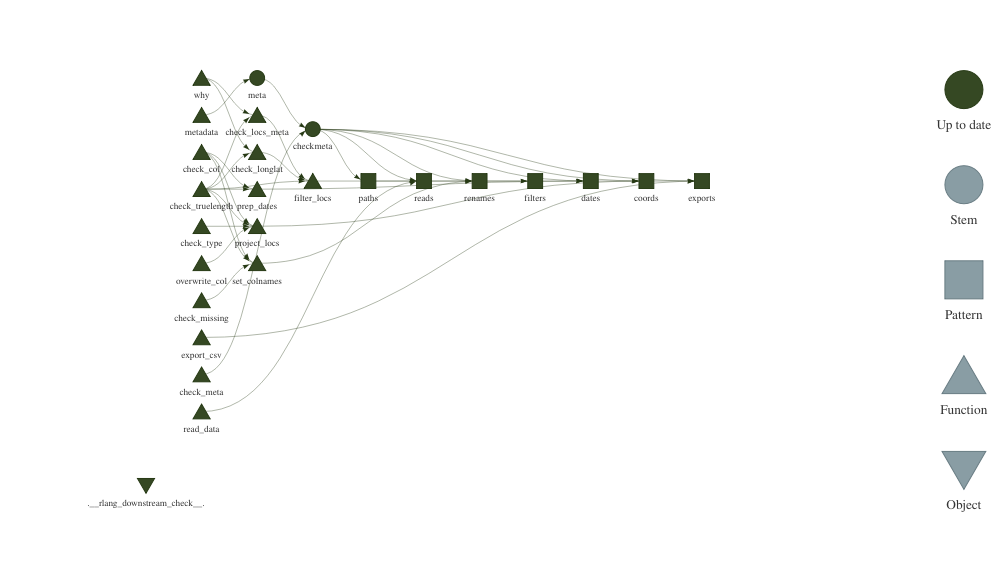
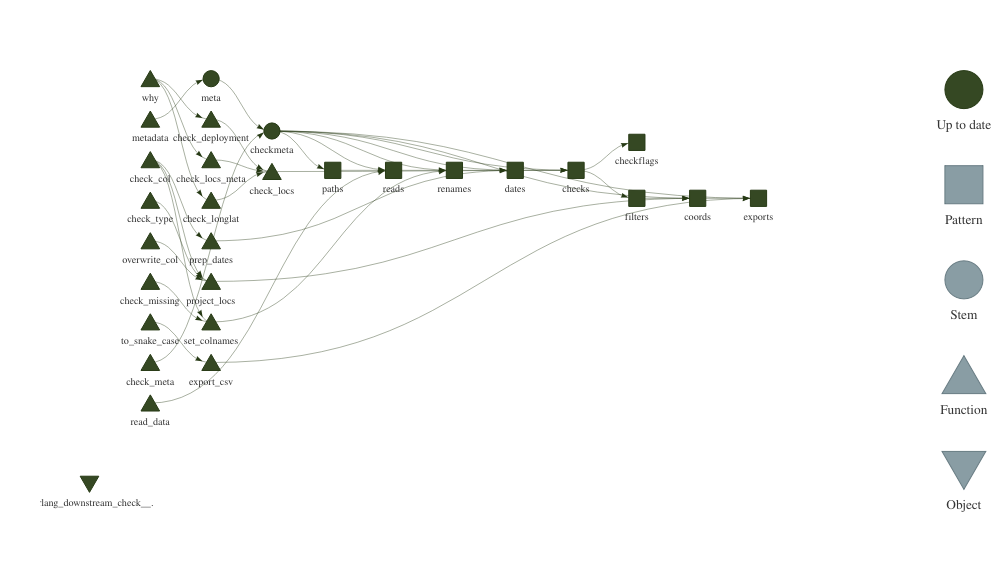
render

diff --git a/README.md b/README.md
@@ -1,116 +1,139 @@
+prepare-locs
+================
 
-# prepare-locs
+-   [Input](#input)
+-   [Output](#output)
+    -   [Files](#files)
+    -   [Column names](#column-names)
+    -   [Flag counts](#flag-counts)
+-   [TODO](#todo)
+-   [Etc](#etc)
 
-A `targets` workflow for processing animal relocation data from the
-WEEL.
+------------------------------------------------------------------------
+
+A `targets` workflow for processing animal relocation data for the WEEL.
 
 ``` r
 library(targets)
 tar_visnetwork()
 ```
 
-    ## Registered S3 method overwritten by 'printr':
-    ##   method                from     
-    ##   knit_print.data.frame rmarkdown
-
 ![](README_files/figure-gfm/viz-1.png)<!-- -->
 
-## Output: files
+# Input
+
+``` r
+tar_read(meta)
+```
+
+| path                                                                   | name                             | x\_long  | y\_lat   | id         | datetime  | extracols                                                                | tz  | epsgin     | epsgout | date      | time      | splitBy | deployment                              |
+|:-----------------------------------------------------------------------|:---------------------------------|:---------|:---------|:-----------|:----------|:-------------------------------------------------------------------------|:----|:-----------|--------:|:----------|:----------|:--------|:----------------------------------------|
+| ../fogo-caribou/data/FogoCaribou.csv                                   | NL-Fogo-Caribou-Telemetry        | X\_COORD | Y\_COORD | ANIMAL\_ID | datetime  | NA                                                                       | UTC | 4326       |   32621 | NA        | NA        | NA      | NA                                      |
+| ../metadata/data/NL/Provincial/Caribou/Telemetry/AllCaribouDataRaw.csv | NL-Provincial-Caribou-Telemetry  | X\_COORD | Y\_COORD | ANIMAL\_ID | NA        | COLLAR\_TYPE\_CL, HERD , Map\_Quality , EPSG\_CODE , EXCLUDE , DOP , NAV | UTC | EPSG\_CODE |   32621 | FIX\_DATE | FIX\_TIME | HERD    | NA                                      |
+| input/vita\_elk\_lotek\_feb\_2016-july\_2019.csv                       | MB-Vita-Elk-Telemetry\_Lotek     | long     | lat      | animal\_ID | time\_utc | status                                                                   | UTC | 4326       |   32614 | NA        | NA        | NA      | input/vita-elk-lotek-deployment.csv     |
+| input/vita\_elk\_vectronic\_feb\_2019-march\_2021.csv                  | MB-Vita-Elk-Telemetry\_Vectronic | long     | lat      | animal\_ID | time\_utc | status                                                                   | UTC | 4326       |   32614 | NA        | NA        | NA      | input/vita-elk-vectronic-deployment.csv |
+| input/RMNP\_elk\_2006\_2015.csv                                        | MB-RMNP-Elk-Telemetry            | long     | lat      | EarTag     | DateTime  | NA                                                                       | GMT | 4326       |   32614 | NA        | NA        | NA      | NA                                      |
+
+# Output
+
+## Files
 
 ``` r
 tar_read(exports)
 ```
 
-    ##  [1] "output/NL-Fogo-Caribou-Telemetry.csv"                     
-    ##  [2] "output/NL-Provincial-Caribou-Telemetry_BUCHANS.csv"       
-    ##  [3] "output/NL-Provincial-Caribou-Telemetry_GlongEY.csv"       
-    ##  [4] "output/NL-Provincial-Caribou-Telemetry_GlongEYVIC.csv"    
-    ##  [5] "output/NL-Provincial-Caribou-Telemetry_GlongOSMOlongN.csv"
-    ##  [6] "output/NL-Provincial-Caribou-Telemetry_LAPOILE.csv"       
-    ##  [7] "output/NL-Provincial-Caribou-Telemetry_MIDlongIDGE.csv"   
-    ##  [8] "output/NL-Provincial-Caribou-Telemetry_MTPEYTON.csv"      
-    ##  [9] "output/NL-Provincial-Caribou-Telemetry_OLDMANS.csv"       
-    ## [10] "output/NL-Provincial-Caribou-Telemetry_POTHILL.csv"       
-    ## [11] "output/NL-Provincial-Caribou-Telemetry_STEPHENV.csv"      
-    ## [12] "output/NL-Provincial-Caribou-Telemetry_TOPSAILS.csv"      
-    ## [13] "output/NL-Provincial-Caribou-Telemetry_UNKNOWN.csv"       
-    ## [14] "output/MB-Vita-Elk-Telemetry_Lotek.csv"                   
-    ## [15] "output/MB-Vita-Elk-Telemetry_Vectronic.csv"               
-    ## [16] "output/MB-longMNP-Elk-Telemetry.csv"
+| output\_path                                         | n\_rows | column\_names                                                                                                    | herd     |
+|:-----------------------------------------------------|--------:|:-----------------------------------------------------------------------------------------------------------------|:---------|
+| output/NL-Fogo-Caribou-Telemetry.csv                 |  156019 | name , id , datetime, x\_long , y\_lat , idate , doy , yr , mnth , flag , x\_proj , y\_proj                      | NA       |
+| output/NL-Provincial-Caribou-Telemetry\_BUCHANS.csv  |  254028 | name , id , datetime , x\_long , y\_lat , herd , idate , doy , yr , mnth , flag , x\_proj , y\_proj , epsg\_proj | BUCHANS  |
+| output/NL-Provincial-Caribou-Telemetry\_GREY.csv     |  270983 | name , id , datetime , x\_long , y\_lat , herd , idate , doy , yr , mnth , flag , x\_proj , y\_proj , epsg\_proj | GREY     |
+| output/NL-Provincial-Caribou-Telemetry\_GREYVIC.csv  |   11136 | name , id , datetime , x\_long , y\_lat , herd , idate , doy , yr , mnth , flag , x\_proj , y\_proj , epsg\_proj | GREYVIC  |
+| output/NL-Provincial-Caribou-Telemetry\_GROSMORN.csv |   42136 | name , id , datetime , x\_long , y\_lat , herd , idate , doy , yr , mnth , flag , x\_proj , y\_proj , epsg\_proj | GROSMORN |
+| output/NL-Provincial-Caribou-Telemetry\_LAPOILE.csv  |  247849 | name , id , datetime , x\_long , y\_lat , herd , idate , doy , yr , mnth , flag , x\_proj , y\_proj , epsg\_proj | LAPOILE  |
+| output/NL-Provincial-Caribou-Telemetry\_MIDRIDGE.csv |  389278 | name , id , datetime , x\_long , y\_lat , herd , idate , doy , yr , mnth , flag , x\_proj , y\_proj , epsg\_proj | MIDRIDGE |
+| output/NL-Provincial-Caribou-Telemetry\_MTPEYTON.csv |   55030 | name , id , datetime , x\_long , y\_lat , herd , idate , doy , yr , mnth , flag , x\_proj , y\_proj , epsg\_proj | MTPEYTON |
+| output/NL-Provincial-Caribou-Telemetry\_OLDMANS.csv  |   11536 | name , id , datetime , x\_long , y\_lat , herd , idate , doy , yr , mnth , flag , x\_proj , y\_proj , epsg\_proj | OLDMANS  |
+| output/NL-Provincial-Caribou-Telemetry\_POTHILL.csv  |  242092 | name , id , datetime , x\_long , y\_lat , herd , idate , doy , yr , mnth , flag , x\_proj , y\_proj , epsg\_proj | POTHILL  |
+| output/NL-Provincial-Caribou-Telemetry\_STEPHENV.csv |   44772 | name , id , datetime , x\_long , y\_lat , herd , idate , doy , yr , mnth , flag , x\_proj , y\_proj , epsg\_proj | STEPHENV |
+| output/NL-Provincial-Caribou-Telemetry\_TOPSAILS.csv |  356426 | name , id , datetime , x\_long , y\_lat , herd , idate , doy , yr , mnth , flag , x\_proj , y\_proj , epsg\_proj | TOPSAILS |
+| output/NL-Provincial-Caribou-Telemetry\_UNKNOWN.csv  |   15818 | name , id , datetime , x\_long , y\_lat , herd , idate , doy , yr , mnth , flag , x\_proj , y\_proj , epsg\_proj | UNKNOWN  |
+| output/MB-Vita-Elk-Telemetry\_Lotek.csv              |   10022 | name , id , datetime, x\_long , y\_lat , idate , doy , yr , mnth , flag , x\_proj , y\_proj                      | NA       |
+| output/MB-Vita-Elk-Telemetry\_Vectronic.csv          |  208239 | name , id , datetime, x\_long , y\_lat , idate , doy , yr , mnth , flag , x\_proj , y\_proj                      | NA       |
+| output/MB-RMNP-Elk-Telemetry.csv                     |   50080 | name , id , datetime, x\_long , y\_lat , idate , doy , yr , mnth , flag , x\_proj , y\_proj                      | NA       |
 
-## Output: flag counts
-
-``` r
-tar_read(checkflags)
-```
-
-| name                             | flag                                                                                           |       N |
-|:---------------------------------|:-----------------------------------------------------------------------------------------------|--------:|
-| NL-Fogo-Caribou-Telemetry        | NA                                                                                             |  156018 |
-| NL-Fogo-Caribou-Telemetry        | long is NA, lat is NA                                                                          |    4621 |
-| NL-Fogo-Caribou-Telemetry        | long is NA, lat is NA, loc is duplicated                                                       |   34360 |
-| NL-Fogo-Caribou-Telemetry        | loc is duplicated                                                                              |      10 |
-| NL-Provincial-Caribou-Telemetry  | Collar type is ARGOS                                                                           |  305866 |
-| NL-Provincial-Caribou-Telemetry  | Map\_Quality is N, Collar type is ARGOS                                                        |    1114 |
-| NL-Provincial-Caribou-Telemetry  | Collar type is VHF                                                                             |   24053 |
-| NL-Provincial-Caribou-Telemetry  | loc is duplicated, Collar type is ARGOS                                                        |      26 |
-| NL-Provincial-Caribou-Telemetry  | NA                                                                                             | 1941084 |
-| NL-Provincial-Caribou-Telemetry  | DOP &gt; 10                                                                                    |    7352 |
-| NL-Provincial-Caribou-Telemetry  | NAV is 2D                                                                                      |   22174 |
-| NL-Provincial-Caribou-Telemetry  | long is 0, lat is 0, long == lat, Map\_Quality is N, DOP &gt; 10, NAV is No                    |    4239 |
-| NL-Provincial-Caribou-Telemetry  | DOP &gt; 10, NAV is 2D                                                                         |    1112 |
-| NL-Provincial-Caribou-Telemetry  | long is 0, lat is 0, long == lat, loc is duplicated, Map\_Quality is N, DOP &gt; 10, NAV is No |    5746 |
-| NL-Provincial-Caribou-Telemetry  | loc is duplicated                                                                              |     310 |
-| NL-Provincial-Caribou-Telemetry  | Map\_Quality is N, NAV is 2D                                                                   |      83 |
-| NL-Provincial-Caribou-Telemetry  | long is 0, lat is 0, long == lat, Map\_Quality is N, NAV is No                                 |    2883 |
-| NL-Provincial-Caribou-Telemetry  | long is 0, lat is 0, long == lat, loc is duplicated, Map\_Quality is N, NAV is No              |    7866 |
-| NL-Provincial-Caribou-Telemetry  | Map\_Quality is N, DOP &gt; 10, NAV is 2D                                                      |      18 |
-| NL-Provincial-Caribou-Telemetry  | loc is duplicated, NAV is 2D                                                                   |      58 |
-| NL-Provincial-Caribou-Telemetry  | Map\_Quality is N                                                                              |    8657 |
-| NL-Provincial-Caribou-Telemetry  | Map\_Quality is N, DOP &gt; 10                                                                 |      15 |
-| NL-Provincial-Caribou-Telemetry  | loc is duplicated, Map\_Quality is N                                                           |      12 |
-| MB-Vita-Elk-Telemetry\_Lotek     | fix date before deployment                                                                     |     473 |
-| MB-Vita-Elk-Telemetry\_Lotek     | NA                                                                                             |   10022 |
-| MB-Vita-Elk-Telemetry\_Lotek     | long is NA, lat is NA, status is not 3D                                                        |     120 |
-| MB-Vita-Elk-Telemetry\_Lotek     | status is not 3D                                                                               |      22 |
-| MB-Vita-Elk-Telemetry\_Lotek     | long is NA, lat is NA, status is not 3D, fix date before deployment                            |       1 |
-| MB-Vita-Elk-Telemetry\_Lotek     | long is NA, lat is NA, loc is duplicated, status is not 3D                                     |       5 |
-| MB-Vita-Elk-Telemetry\_Lotek     | loc is duplicated                                                                              |       2 |
-| MB-Vita-Elk-Telemetry\_Vectronic | fix date before deployment                                                                     |     102 |
-| MB-Vita-Elk-Telemetry\_Vectronic | loc is duplicated, fix date before deployment                                                  |      10 |
-| MB-Vita-Elk-Telemetry\_Vectronic | NA                                                                                             |  208239 |
-| MB-Vita-Elk-Telemetry\_Vectronic | loc is duplicated                                                                              |    5899 |
-| MB-Vita-Elk-Telemetry\_Vectronic | status is not 3D                                                                               |     723 |
-| MB-Vita-Elk-Telemetry\_Vectronic | long is NA, lat is NA, status is not 3D                                                        |     182 |
-| MB-Vita-Elk-Telemetry\_Vectronic | loc is duplicated, status is not 3D                                                            |       7 |
-| MB-Vita-Elk-Telemetry\_Vectronic | status is not 3D, fix date before deployment                                                   |       1 |
-| MB-Vita-Elk-Telemetry\_Vectronic | long is NA, lat is NA, status is not 3D, fix date before deployment                            |       2 |
-| MB-Vita-Elk-Telemetry\_Vectronic | long is NA, lat is NA, loc is duplicated, status is not 3D                                     |       3 |
-| MB-RMNP-Elk-Telemetry            | NA                                                                                             |   50080 |
-| MB-RMNP-Elk-Telemetry            | loc is duplicated                                                                              |      24 |
-
-## Output: column names
+## Column names
 
 | Column name   | Description                                                                  |
 |---------------|------------------------------------------------------------------------------|
 | id            | unique animal identifier                                                     |
 | datetime      | date time in UTC                                                             |
+| doy           | date of year, integer. see `data.table::yday()`                              |
+| mnth          | month, integer. see `data.table::month()`                                    |
+| yr            | year, integer. see `data.table::year()`                                      |
 | x\_long       | longitude, EPSG code provided in `metadata()`. see `R/metadata.R`            |
 | y\_lat        | latitude, EPSG code provided in `metadata()`. see `R/metadata.R`             |
-| flag          | comma separated flags indicating why locs are dropped and set to NaN         |
-| doy           | date of year, integer. see `data.table::yday()`                              |
-| yr            | year, integer. see `data.table::year()`                                      |
-| mnth          | month, integer. see `data.table::month()`                                    |
 | x\_proj       | projected x coordinate, output EPSG code in `metadata()`. see `R/metadata.R` |
 | y\_proj       | projected y coordinate, output EPSG code in `metadata()`. see `R/metadata.R` |
 | epsg\_proj    | output EPSG of ‘x\_proj’ and ‘y\_proj’ as set in `metadata()`.               |
+| flag          | semi-colon separated flags indicating why locs are dropped and set to NaN    |
 | \[extracols\] | eg. HERD. as provided in the `metadata()`. see `R/metadata.R`                |
 
-## TODO
+## Flag counts
+
+``` r
+tar_read(checkflags)
+```
+
+| name                             | flag                                                                                                       |       N |
+|:---------------------------------|:-----------------------------------------------------------------------------------------------------------|--------:|
+| NL-Fogo-Caribou-Telemetry        | NA                                                                                                         |  156019 |
+| NL-Fogo-Caribou-Telemetry        | x\_long is NA; y\_lat is NA                                                                                |    4625 |
+| NL-Fogo-Caribou-Telemetry        | x\_long is NA; y\_lat is NA; loc is duplicated                                                             |   34356 |
+| NL-Fogo-Caribou-Telemetry        | loc is duplicated                                                                                          |       9 |
+| NL-Provincial-Caribou-Telemetry  | Collar type is ARGOS                                                                                       |  305866 |
+| NL-Provincial-Caribou-Telemetry  | Map\_Quality is N; Collar type is ARGOS                                                                    |    1114 |
+| NL-Provincial-Caribou-Telemetry  | Collar type is VHF                                                                                         |   24053 |
+| NL-Provincial-Caribou-Telemetry  | loc is duplicated; Collar type is ARGOS                                                                    |      26 |
+| NL-Provincial-Caribou-Telemetry  | NA                                                                                                         | 1941084 |
+| NL-Provincial-Caribou-Telemetry  | DOP &gt; 10                                                                                                |    7352 |
+| NL-Provincial-Caribou-Telemetry  | NAV is 2D                                                                                                  |   22174 |
+| NL-Provincial-Caribou-Telemetry  | x\_long is 0; y\_lat is 0; x\_long == y\_lat; Map\_Quality is N; DOP &gt; 10; NAV is No                    |    4239 |
+| NL-Provincial-Caribou-Telemetry  | DOP &gt; 10; NAV is 2D                                                                                     |    1112 |
+| NL-Provincial-Caribou-Telemetry  | x\_long is 0; y\_lat is 0; x\_long == y\_lat; loc is duplicated; Map\_Quality is N; DOP &gt; 10; NAV is No |    5746 |
+| NL-Provincial-Caribou-Telemetry  | loc is duplicated                                                                                          |     310 |
+| NL-Provincial-Caribou-Telemetry  | Map\_Quality is N; NAV is 2D                                                                               |      83 |
+| NL-Provincial-Caribou-Telemetry  | x\_long is 0; y\_lat is 0; x\_long == y\_lat; Map\_Quality is N; NAV is No                                 |    2883 |
+| NL-Provincial-Caribou-Telemetry  | x\_long is 0; y\_lat is 0; x\_long == y\_lat; loc is duplicated; Map\_Quality is N; NAV is No              |    7866 |
+| NL-Provincial-Caribou-Telemetry  | Map\_Quality is N; DOP &gt; 10; NAV is 2D                                                                  |      18 |
+| NL-Provincial-Caribou-Telemetry  | loc is duplicated; NAV is 2D                                                                               |      58 |
+| NL-Provincial-Caribou-Telemetry  | Map\_Quality is N                                                                                          |    8657 |
+| NL-Provincial-Caribou-Telemetry  | Map\_Quality is N; DOP &gt; 10                                                                             |      15 |
+| NL-Provincial-Caribou-Telemetry  | loc is duplicated; Map\_Quality is N                                                                       |      12 |
+| MB-Vita-Elk-Telemetry\_Lotek     | fix date before deployment                                                                                 |     473 |
+| MB-Vita-Elk-Telemetry\_Lotek     | NA                                                                                                         |   10022 |
+| MB-Vita-Elk-Telemetry\_Lotek     | x\_long is NA; y\_lat is NA; status is not 3D                                                              |     120 |
+| MB-Vita-Elk-Telemetry\_Lotek     | status is not 3D                                                                                           |      22 |
+| MB-Vita-Elk-Telemetry\_Lotek     | x\_long is NA; y\_lat is NA; status is not 3D; fix date before deployment                                  |       1 |
+| MB-Vita-Elk-Telemetry\_Lotek     | x\_long is NA; y\_lat is NA; loc is duplicated; status is not 3D                                           |       5 |
+| MB-Vita-Elk-Telemetry\_Lotek     | loc is duplicated                                                                                          |       2 |
+| MB-Vita-Elk-Telemetry\_Vectronic | fix date before deployment                                                                                 |     102 |
+| MB-Vita-Elk-Telemetry\_Vectronic | loc is duplicated; fix date before deployment                                                              |      10 |
+| MB-Vita-Elk-Telemetry\_Vectronic | NA                                                                                                         |  208239 |
+| MB-Vita-Elk-Telemetry\_Vectronic | loc is duplicated                                                                                          |    5899 |
+| MB-Vita-Elk-Telemetry\_Vectronic | status is not 3D                                                                                           |     723 |
+| MB-Vita-Elk-Telemetry\_Vectronic | x\_long is NA; y\_lat is NA; status is not 3D                                                              |     182 |
+| MB-Vita-Elk-Telemetry\_Vectronic | loc is duplicated; status is not 3D                                                                        |       7 |
+| MB-Vita-Elk-Telemetry\_Vectronic | status is not 3D; fix date before deployment                                                               |       1 |
+| MB-Vita-Elk-Telemetry\_Vectronic | x\_long is NA; y\_lat is NA; status is not 3D; fix date before deployment                                  |       2 |
+| MB-Vita-Elk-Telemetry\_Vectronic | x\_long is NA; y\_lat is NA; loc is duplicated; status is not 3D                                           |       3 |
+| MB-RMNP-Elk-Telemetry            | NA                                                                                                         |   50080 |
+| MB-RMNP-Elk-Telemetry            | loc is duplicated                                                                                          |      24 |
+
+# TODO
 
 -   6030 not recognized by PROJ because it’s not a complete CRS..
 
-## Etc
+# Etc
 
 Screening GPS fixes:
 
